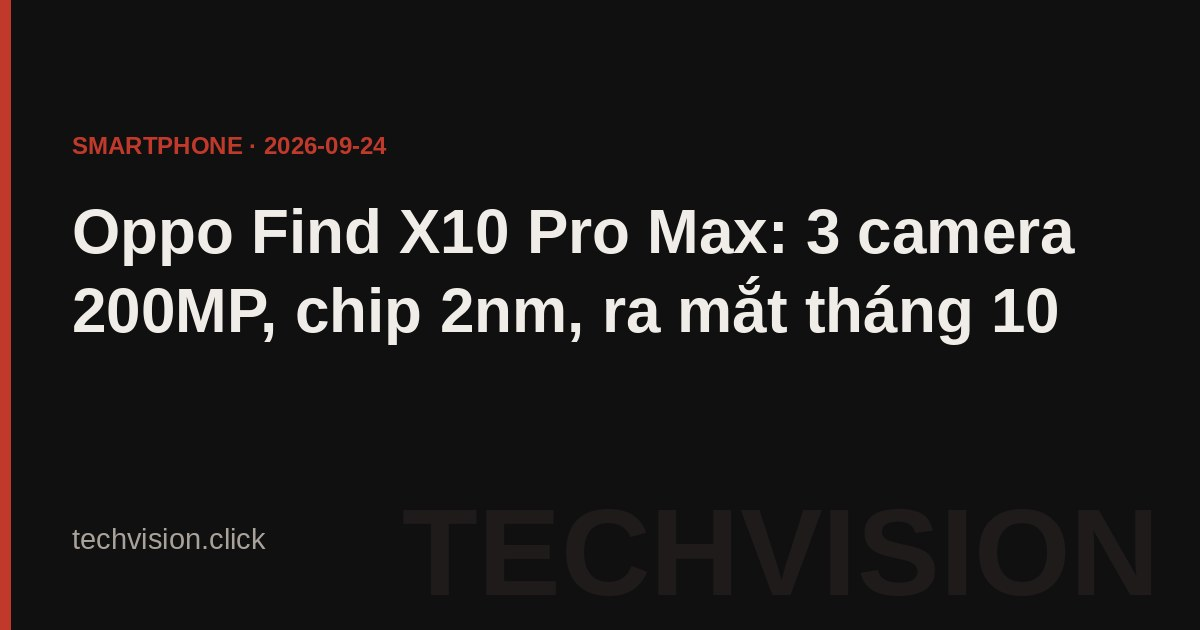
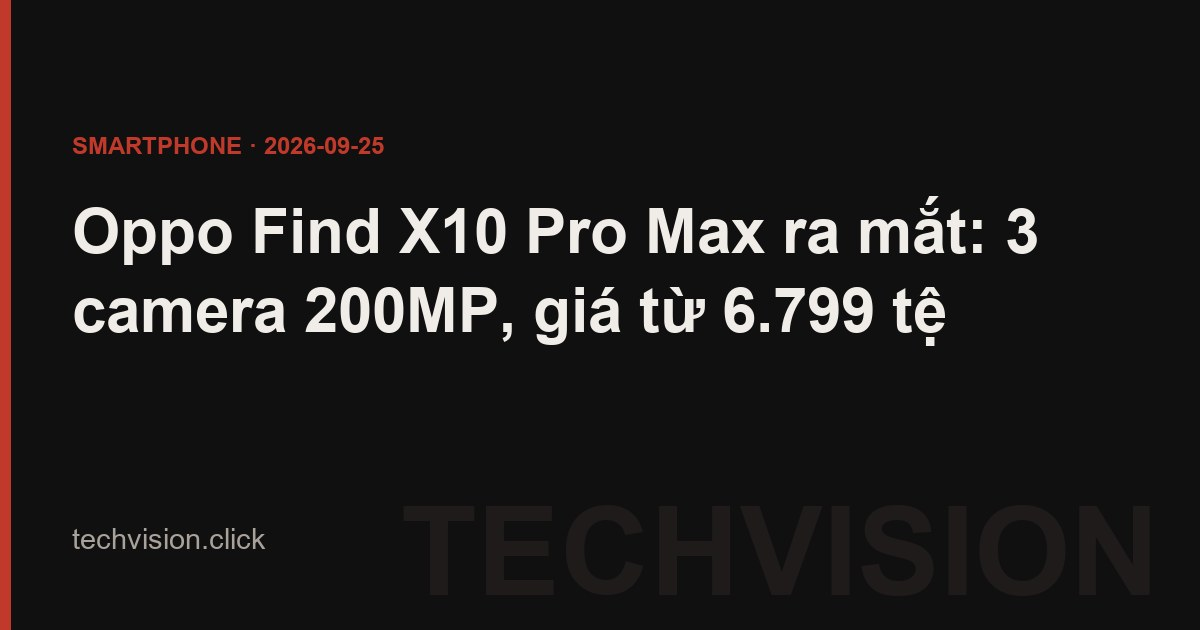
Oppo Find X10: cập nhật sau ra mắt - giá Trung Quốc 3 bản (2 nguồn), chip/pin chính thức, quy đổi VCB 25/9, sửa TLDR mâu thuẫn Find X9 Pro

diff --git a/src/content/articles/oppo-find-x10-series-ra-mat-ba-camera-200mp-dimensity-9600-pro.md b/src/content/articles/oppo-find-x10-series-ra-mat-ba-camera-200mp-dimensity-9600-pro.md
@@ -1,42 +1,43 @@
 ---
 slug: "oppo-find-x10-series-ra-mat-ba-camera-200mp-dimensity-9600-pro"
-title: "Oppo Find X10 Pro Max: 3 camera 200MP, ra mắt ngày 22/9"
-description: "Oppo chốt Find X10 series ra mắt Trung Quốc ngày 22/9/2026 với 3 bản. Find X10 Pro Max có ba camera 200MP Hasselblad, bản thường hai camera 200MP."
+title: "Oppo Find X10 Pro Max ra mắt: 3 camera 200MP, giá từ 6.799 tệ"
+description: "Find X10 series ra mắt Trung Quốc 22/9/2026, bán từ 24/9. Pro Max ba camera 200MP giá từ 6.799 tệ (khoảng 25,9 triệu đồng), bản thường từ 5.499 tệ."
 keywords: "oppo find x10, oppo find x10 pro max, find x10 camera 200mp, dimensity 9600 pro, oppo find x10 giá, oppo find x10 ra mắt, hasselblad oppo"
 category: "Smartphone"
 type: "tin-tuc"
 datePublished: "2026-09-24T09:00:00+07:00"
-dateModified: "2026-09-24T09:00:00+07:00"
-deck: "Oppo đã tự xác nhận phần gây chú ý nhất của Find X10 Pro Max trước khi máy ra mắt: ba ống kính, cả ba đều 200MP. Đây là lần đầu một smartphone thương mại đi theo hướng đó, thay vì để camera chính gánh độ phân giải còn hai ống kia chạy cảm biến nhỏ hơn. Máy ra mắt tại Trung Quốc cuối tháng 9/2026 và ra toàn cầu trong tháng 10, nên câu hỏi giá bán tại Việt Nam sẽ có lời đáp sớm hơn nhiều so với các dòng flagship khác."
+dateModified: "2026-09-25T11:00:00+07:00"
+deck: "Find X10 Pro Max đã ra mắt tại Trung Quốc ngày 22/9/2026 với ba ống kính, cả ba đều 200MP. Đây là lần đầu một smartphone thương mại đi theo hướng đó, thay vì để camera chính gánh độ phân giải còn hai ống kia chạy cảm biến nhỏ hơn. Giá Trung Quốc đã có, từ 6.799 tệ, còn lịch bán toàn cầu và giá Việt Nam Oppo chưa công bố."
 heroImage: "https://i.ytimg.com/vi/x9JJE2M-4Lc/maxresdefault.jpg"
 heroAlt: "Oppo Find X10 Pro Max voi ba camera 200MP Hasselblad nam 2026"
 heroCaption: "Find X10 series ra mắt tại Trung Quốc ngày 22/9/2026. Ảnh minh họa từ YouTube"
 ogImage: "https://techvision.click/uploads/og-article/oppo-find-x10-series-ra-mat-ba-camera-200mp-dimensity-9600-pro.jpg"
-tldr: "Oppo xác nhận <strong>Find X10 series</strong> ra mắt tại Trung Quốc ngày <strong>22/9/2026</strong> với ba bản <strong>Find X10, Find X10 Pro Max và Find X10 E</strong>; ngày ra mắt toàn cầu chưa được công bố. Bản cao nhất <strong>Find X10 Pro Max</strong> dùng <strong>ba camera 200MP</strong> phát triển cùng Hasselblad: camera chính khẩu <strong>f/1.5</strong>, góc siêu rộng f/2.2 và tele f/2.1 kèm chống rung chuẩn <strong>CIPA 7.5</strong>. Máy được cho là chạy <strong>Dimensity 9600 Pro</strong> trên tiến trình <strong>2nm của TSMC</strong>, thuộc nhóm chip 2nm thương mại đầu tiên. Tại Việt Nam, thế hệ trước là Find X9 Pro đang bán ở mức <strong>32,99 triệu đồng</strong> bản 16GB/512GB."
+tldr: "Oppo xác nhận <strong>Find X10 series</strong> ra mắt tại Trung Quốc ngày <strong>22/9/2026</strong> với ba bản <strong>Find X10, Find X10 Pro Max và Find X10 E</strong>; máy bán từ <strong>24/9</strong>, ngày ra mắt toàn cầu chưa được công bố. Bản cao nhất <strong>Find X10 Pro Max</strong> dùng <strong>ba camera 200MP</strong> phát triển cùng Hasselblad: camera chính khẩu <strong>f/1.5</strong>, góc siêu rộng f/2.2 và tele f/2.1 kèm chống rung chuẩn <strong>CIPA 7.5</strong>, chạy <strong>Dimensity 9600 Pro</strong> tiến trình <strong>2nm</strong>, pin <strong>8.000mAh</strong>. Giá Trung Quốc từ <strong>6.799 tệ</strong> (khoảng <strong>25,9 triệu đồng</strong> quy đổi) cho Pro Max, <strong>5.499 tệ</strong> cho Find X10 và <strong>4.999 tệ</strong> cho Find X10 E. Tại Việt Nam, mốc tham chiếu là Find X9 Ultra đang bán <strong>44,84 triệu đồng</strong>."
 tags: ["Smartphone", "Oppo", "Camera", "MediaTek"]
 about: ["Oppo", "Oppo Find X10 Pro Max", "Hasselblad", "MediaTek Dimensity 9600 Pro"]
 authorBio: "Founder LongTechVision. Theo dõi thị trường smartphone và mức giá thực tế tại các đại lý Việt Nam."
-sourceUrl: "https://www.gizmochina.com/2026/09/02/oppo-find-x10-pro-max-leaked-renders-triple-200mp-cameras/"
-sourceName: "Gizmochina"
-sourceDomains: "gizmochina.com · t3.com · gizchina.com · notebookcheck.net"
+sourceUrl: "https://www.gizchina.com/oppo-phones-2/oppo-find-x10-pro-max-officially-unveiled-how-much-does-it-cost"
+sourceName: "Gizchina"
+sourceDomains: "gizchina.com · phonebunch.com · mymobileindia.com · gizmochina.com · notebookcheck.net"
 stats:
   - { num: "3 x 200MP", label: "Số ống kính 200MP trên Find X10 Pro Max theo xác nhận của Oppo" }
   - { num: "f/1.5", label: "Khẩu độ camera chính, hai ống còn lại f/2.2 và f/2.1" }
   - { num: "CIPA 7.5", label: "Chuẩn chống rung của ống tele trên bản Pro Max" }
   - { num: "2nm", label: "Tiến trình TSMC của chip Dimensity 9600 Pro" }
-  - { num: "22/9/2026", label: "Ngày Find X10 series ra mắt tại Trung Quốc, Oppo xác nhận 14/9" }
+  - { num: "22/9/2026", label: "Ngày Find X10 series ra mắt tại Trung Quốc, bán từ 24/9" }
+  - { num: "6.799 tệ", label: "Giá khởi điểm Find X10 Pro Max 12GB/256GB tại Trung Quốc, khoảng 25,9 triệu đồng" }
   - { num: "44,84 triệu", label: "Giá bán Find X9 Ultra tại Việt Nam ngày 15/9, làm mốc tham chiếu" }
 faq:
   - q: "Ba camera 200MP có thực sự tốt hơn cách bố trí thông thường không?"
     a: "Không tự động tốt hơn. Độ phân giải cao ở cả ba ống giúp giữ chi tiết khi cắt ảnh và khi chuyển giữa các tiêu cự, đặc biệt có lợi cho ống góc siêu rộng vốn hay là mắt xích yếu nhất. Nhưng chất lượng ảnh cuối cùng phụ thuộc kích thước cảm biến, khẩu độ, ống kính và phần xử lý nhiều hơn là con số megapixel. Cảm biến 200MP nhỏ vẫn có thể thua cảm biến 50MP lớn trong điều kiện thiếu sáng."
   - q: "Find X10 bao giờ về Việt Nam và giá khoảng bao nhiêu?"
-    a: "Oppo chưa công bố lịch bán hay giá tại Việt Nam. Căn cứ có thể dùng là thế hệ trước: ngày 15/9/2026, Find X9 Ultra đang bán 44,84 triệu đồng tại Thế Giới Di Động và CellphoneS (niêm yết 49,99 triệu), còn Find X9 Pro đã ngừng kinh doanh tại Thế Giới Di Động. Các thế hệ Find X gần đây thường về Việt Nam sau bản toàn cầu vài tuần tới hơn một tháng. Mọi con số giá cho Find X10 lúc này đều là suy đoán, nên chờ công bố chính thức trước khi tính toán."
+    a: "Oppo chưa công bố lịch bán hay giá tại Việt Nam. Giá Trung Quốc đã có: Find X10 Pro Max từ 6.799 tệ, Find X10 từ 5.499 tệ, Find X10 E từ 4.999 tệ, tương đương khoảng 25,9, 21 và 19 triệu đồng theo tỷ giá chuyển khoản Vietcombank ngày 25/9/2026. Giá chính hãng tại Việt Nam thường không trùng giá quy đổi vì còn VAT, chi phí phân phối và bảo hành. Một mốc khác là thế hệ trước: ngày 15/9/2026, Find X9 Ultra đang bán 44,84 triệu đồng tại Thế Giới Di Động và CellphoneS (niêm yết 49,99 triệu), còn Find X9 Pro đã ngừng kinh doanh tại Thế Giới Di Động. Các thế hệ Find X gần đây thường về Việt Nam sau bản toàn cầu vài tuần tới hơn một tháng. Giá Việt Nam cho Find X10 lúc này vẫn là suy đoán, nên chờ công bố chính thức trước khi tính toán."
   - q: "Dimensity 9600 Pro khác gì Dimensity 9600 thường?"
-    a: "Theo các bản tin rò rỉ, Find X10 Pro Max dùng bản Dimensity 9600 Pro còn các model thấp hơn trong dòng có thể dùng biến thể khác cùng họ chip. Cách phân tầng này khá phổ biến: bản Pro thường có xung nhịp cao hơn hoặc phần đồ họa mở rộng hơn. Chi tiết cụ thể chưa được MediaTek công bố đầy đủ nên chưa thể so sánh chính xác."
+    a: "Khi ra mắt, Oppo chia chip theo ba tầng: Find X10 Pro Max dùng Dimensity 9600 Pro tiến trình 2nm, Find X10 bản thường dùng Dimensity 9600M, còn Find X10 E dùng Dimensity 9500s của thế hệ trước. Cách phân tầng này khá phổ biến: bản cao nhất thường có xung nhịp cao hơn hoặc phần đồ họa mở rộng hơn. Chênh lệch hiệu năng thực tế giữa các bản cần chờ đo trên máy bán ra."
   - q: "Chip 2nm có làm máy mát và tiết kiệm pin hơn rõ rệt không?"
     a: "Tiến trình nhỏ hơn giúp giảm điện năng tiêu thụ ở cùng mức hiệu năng, nhưng phần cải thiện người dùng cảm nhận được phụ thuộc rất nhiều vào cách hãng thiết lập xung nhịp và tản nhiệt. Nhiều máy dùng tiến trình mới lại đẩy hiệu năng lên cao hơn thay vì giữ nguyên để tiết kiệm điện, nên thời lượng pin không nhất thiết tăng tương ứng. Cần chờ đo thực tế trên máy bán ra."
   - q: "Nên mua Find X9 Ultra đang giảm giá hay chờ Find X10?"
-    a: "Nếu ưu tiên chụp ảnh ở dải tiêu cự rộng và muốn thiết bị mới nhất thì chờ Find X10 hợp lý, vì máy chỉ còn cách vài tuần. Nếu ưu tiên giá thì thời điểm ngay sau khi Find X10 ra toàn cầu thường là lúc thế hệ trước giảm sâu nhất tại các đại lý Việt Nam. Với đa số nhu cầu thường ngày, khoảng chênh lệch giữa hai thế hệ liền kề trong dòng Find X không lớn bằng mức chênh giá."
+    a: "Nếu ưu tiên chụp ảnh ở dải tiêu cự rộng và muốn thiết bị mới nhất thì chờ Find X10 hợp lý, vì máy đã bán tại Trung Quốc và bản toàn cầu thường theo sau. Nếu ưu tiên giá thì thời điểm ngay sau khi Find X10 ra toàn cầu thường là lúc thế hệ trước giảm sâu nhất tại các đại lý Việt Nam. Với đa số nhu cầu thường ngày, khoảng chênh lệch giữa hai thế hệ liền kề trong dòng Find X không lớn bằng mức chênh giá."
 related:
   - { href: "/articles/xiaomi-18-pro-pro-max-fold-ra-mat-thang-9-2026-gia-viet-nam.html", cat: "Smartphone", title: "Xiaomi 18 Pro, Pro Max và Fold ra mắt: giá tại Việt Nam" }
   - { href: "/articles/iphone-18-pro-pro-max-gia-chinh-thuc-cau-hinh-2026.html", cat: "Apple", title: "iPhone 18 Pro và Pro Max: giá chính thức và cấu hình" }
@@ -44,22 +45,26 @@ related:
 featured: true
 ---
 
-Oppo đã chủ động xác nhận điểm nhấn của **Find X10 Pro Max** trước ngày ra mắt, thay vì để thông tin nhỏ giọt qua rò rỉ: máy có **ba camera 200MP**, cả ba phát triển cùng Hasselblad. Ngày 14/9, Oppo công bố ảnh chính thức, video teaser và chốt lịch: dòng Find X10 ra mắt tại Trung Quốc ngày **22/9/2026** với ba bản Find X10, Find X10 Pro Max và Find X10 E, ra cùng đồng hồ Watch S2 và tai nghe Enco X4. Find X10 bản thường dùng hai camera 200MP. Ngày ra mắt toàn cầu chưa được công bố.
+> **Cập nhật 25/9/2026:** Find X10 series đã ra mắt tại Trung Quốc ngày 22/9 và bán từ 24/9. Giá Trung Quốc, chip và pin trong bài là số chính thức đối chiếu từ nhiều nguồn. Giá Việt Nam và lịch bán toàn cầu Oppo chưa công bố.
+
+Oppo đã chủ động xác nhận điểm nhấn của **Find X10 Pro Max** trước ngày ra mắt, thay vì để thông tin nhỏ giọt qua rò rỉ: máy có **ba camera 200MP**, cả ba phát triển cùng Hasselblad. Ngày 14/9, Oppo công bố ảnh chính thức, video teaser và chốt lịch: dòng Find X10 ra mắt tại Trung Quốc ngày **22/9/2026** với ba bản Find X10, Find X10 Pro Max và Find X10 E, ra cùng đồng hồ Watch S2 và tai nghe Enco X4. Find X10 bản thường dùng hai camera 200MP. Sự kiện diễn ra đúng lịch, cả ba bản lên kệ tại Trung Quốc từ 24/9. Ngày ra mắt toàn cầu chưa được công bố.
 
 <div class="spec-box">
-  <div class="spec-box-title">📋 Find X10 Pro Max: những gì đã được xác nhận và rò rỉ</div>
+  <div class="spec-box-title">📋 Find X10 Pro Max: thông số Oppo công bố khi ra mắt</div>
   <table>
     <tr><td>Camera chính</td><td>200MP, khẩu độ f/1.5</td></tr>
     <tr><td>Camera góc siêu rộng</td><td>200MP, khẩu độ f/2.2</td></tr>
     <tr><td>Camera tele</td><td>200MP, f/2.1, chống rung chuẩn CIPA 7.5</td></tr>
     <tr><td>Hợp tác quang học</td><td>Hasselblad</td></tr>
-    <tr><td>Chip</td><td>Dimensity 9600 Pro, tiến trình 2nm TSMC (rò rỉ)</td></tr>
-    <tr><td>Ra mắt Trung Quốc</td><td>22/9/2026 (Oppo xác nhận 14/9)</td></tr>
+    <tr><td>Chip</td><td>Dimensity 9600 Pro, tiến trình 2nm</td></tr>
+    <tr><td>Pin và sạc</td><td>8.000mAh, sạc dây 80W, không dây 50W</td></tr>
+    <tr><td>Giá Trung Quốc</td><td>Từ 6.799 tệ (12GB/256GB) tới 8.999 tệ (16GB/1TB)</td></tr>
+    <tr><td>Ra mắt Trung Quốc</td><td>22/9/2026, bán từ 24/9</td></tr>
     <tr><td>Ra mắt toàn cầu</td><td>Chưa công bố</td></tr>
   </table>
 </div>
 
-Phần camera là thông tin do chính Oppo đưa ra, còn phần chip và ngày bán cụ thể đến từ rò rỉ, trong đó có các nguồn quen thuộc như Digital Chat Station và Ice Universe, còn ngày ra mắt 22/9 tại Trung Quốc thì Oppo đã tự xác nhận hôm 14/9. Ranh giới giữa hai nhóm thông tin này nên được giữ rõ khi đọc.
+Trước sự kiện, phần camera do chính Oppo hé lộ còn chip đến từ rò rỉ của Digital Chat Station và Ice Universe. Sau buổi ra mắt 22/9, cả hai nhóm thông tin đều đã khớp với thông số chính thức. Phần còn thiếu là lịch bán toàn cầu và giá ngoài Trung Quốc.
 
 ## Ba ống kính 200MP: vì sao đây là bước đi khác thường
 
@@ -93,15 +98,33 @@ Với ống tele thì chống rung quan trọng hơn hẳn so với ống chính
 
 ## Dimensity 9600 Pro và làn sóng chip 2nm
 
-Theo rò rỉ, Find X10 Pro Max chạy **Dimensity 9600 Pro** sản xuất trên tiến trình **2nm của TSMC**, thuộc nhóm chip di động 2nm thương mại đầu tiên. Các model thấp hơn trong dòng được cho là dùng biến thể khác cùng họ chip.
+Find X10 Pro Max chạy **Dimensity 9600 Pro** tiến trình **2nm**, thuộc nhóm chip di động 2nm thương mại đầu tiên. Find X10 bản thường dùng **Dimensity 9600M**, còn Find X10 E lùi về **Dimensity 9500s** với pin 7.025mAh.
 
 Việc MediaTek có mặt sớm ở tiến trình 2nm là thay đổi đáng kể so với vài năm trước, khi dòng Dimensity còn bị xem là lựa chọn hạng hai so với Snapdragon ở phân khúc cao cấp. Cuộc cạnh tranh chip cao cấp năm nay vì thế có ba bên thay vì hai, và người mua là bên hưởng lợi. Cùng thời điểm này, dòng Xiaomi cũng đã lên kệ với cấu hình cao cấp và mức giá Việt Nam đã công bố, chi tiết nằm trong bài [Xiaomi 18 Pro, Pro Max và Fold ra mắt cùng giá tại Việt Nam](/articles/xiaomi-18-pro-pro-max-fold-ra-mat-thang-9-2026-gia-viet-nam.html).
 
 Về hiệu năng thực tế, nên chờ máy thương mại. Tiến trình nhỏ hơn giúp giảm điện năng ở cùng mức hiệu năng, nhưng phần lớn hãng chọn đẩy hiệu năng lên thay vì giữ nguyên để tiết kiệm pin. Kết quả là thời lượng pin không phải lúc nào cũng tăng theo, và nhiệt độ máy phụ thuộc vào thiết kế tản nhiệt nhiều hơn là con số nanomet.
 
-## Giá tại Việt Nam: lấy gì làm mốc
+## Giá Trung Quốc và mốc tham chiếu tại Việt Nam
 
-Oppo chưa công bố giá cho Find X10 ở bất kỳ thị trường nào, nên mọi con số lúc này đều là suy đoán. Mốc tham chiếu đáng tin nhất là thế hệ liền trước.
+Oppo mới công bố giá tại Trung Quốc. Bảng dưới quy đổi theo tỷ giá chuyển khoản Vietcombank ngày 25/9/2026 (1 tệ = 3.811,56 đồng), chỉ để hình dung mặt bằng giá chứ không phải giá bán tại Việt Nam.
+
+<div class="spec-box">
+  <div class="spec-box-title">💰 Giá Find X10 series tại Trung Quốc</div>
+  <table>
+    <tr><td>Find X10 E 12GB/256GB</td><td>4.999 tệ, khoảng 19,05 triệu đồng</td></tr>
+    <tr><td>Find X10 E 16GB/512GB</td><td>5.499 tệ, khoảng 20,96 triệu đồng</td></tr>
+    <tr><td>Find X10 12GB/256GB</td><td>5.499 tệ, khoảng 20,96 triệu đồng</td></tr>
+    <tr><td>Find X10 12GB/512GB</td><td>5.999 tệ, khoảng 22,87 triệu đồng</td></tr>
+    <tr><td>Find X10 16GB/512GB</td><td>6.499 tệ, khoảng 24,77 triệu đồng</td></tr>
+    <tr><td>Find X10 16GB/1TB</td><td>7.499 tệ, khoảng 28,58 triệu đồng</td></tr>
+    <tr><td>Find X10 Pro Max 12GB/256GB</td><td>6.799 tệ, khoảng 25,91 triệu đồng</td></tr>
+    <tr><td>Find X10 Pro Max 12GB/512GB</td><td>7.499 tệ, khoảng 28,58 triệu đồng</td></tr>
+    <tr><td>Find X10 Pro Max 16GB/512GB</td><td>7.999 tệ, khoảng 30,49 triệu đồng</td></tr>
+    <tr><td>Find X10 Pro Max 16GB/1TB</td><td>8.999 tệ, khoảng 34,30 triệu đồng</td></tr>
+  </table>
+</div>
+
+Giá chính hãng tại Việt Nam thường không trùng giá quy đổi, vì còn VAT, chi phí phân phối và bảo hành. Oppo chưa công bố giá Việt Nam, nên mốc tham chiếu đáng tin nhất vẫn là thế hệ liền trước đang bán tại đại lý.
 
 <figure>
   <img decoding="async" src="https://i.ytimg.com/vi/v3P5Buwiy1k/maxresdefault.jpg" alt="Dien thoai Oppo Find X ban chinh hang tai dai ly Viet Nam" loading="lazy" width="1280" height="720">
@@ -110,7 +133,7 @@ Oppo chưa công bố giá cho Find X10 ở bất kỳ thị trường nào, nê
 
 Khảo sát ngày 15/9/2026, **Find X9 Pro** đã ở trạng thái ngừng kinh doanh trên Thế Giới Di Động, nên mốc tham chiếu còn bán rộng là **Find X9 Ultra** với giá **44,84 triệu đồng** tại Thế Giới Di Động và CellphoneS, niêm yết 49,99 triệu. Các đại lý lớn đang chạy chương trình thu cũ đổi mới và quà tặng kèm, nên giá thực tế người mua trả thường thấp hơn mức niêm yết.
 
-Với Find X10, có hai yếu tố kéo giá theo hai hướng ngược nhau. Kéo lên là chi phí linh kiện: giá bộ nhớ và chip nhớ tăng mạnh trong năm 2026, cộng thêm tiến trình 2nm còn mới nên đắt. Kéo xuống là áp lực cạnh tranh ở phân khúc 30 tới 35 triệu đồng, nơi đang có mặt cả iPhone, Samsung, Xiaomi và Honor. Mức giá thực tế nhiều khả năng nằm quanh vùng của thế hệ trước, nhưng đó là suy luận chứ chưa phải con số xác nhận.
+Với Find X10, có hai yếu tố kéo giá theo hai hướng ngược nhau. Kéo lên là chi phí linh kiện: giá bộ nhớ và chip nhớ tăng mạnh trong năm 2026, cộng thêm tiến trình 2nm còn mới nên đắt. Kéo xuống là áp lực cạnh tranh ở phân khúc 30 tới 35 triệu đồng, nơi đang có mặt cả iPhone, Samsung, Xiaomi và Honor. Giá Trung Quốc của bản Pro Max quy đổi khoảng 25,9 tới 34,3 triệu đồng tùy bộ nhớ, nhưng giá Việt Nam vẫn là suy luận cho tới khi Oppo công bố.
 
 Với người đang cân nhắc, thời điểm đáng chú ý không hẳn là ngày Find X10 lên kệ mà là vài tuần sau đó. Đây là lúc Find X9 và X9 Pro thường giảm mạnh nhất tại các đại lý Việt Nam. Nếu nhu cầu chính là chụp ảnh thường ngày chứ không phải khai thác hết dải tele, khoảng chênh lệch giá giữa hai thế hệ liền kề thường lớn hơn khoảng chênh lệch trải nghiệm.
 
